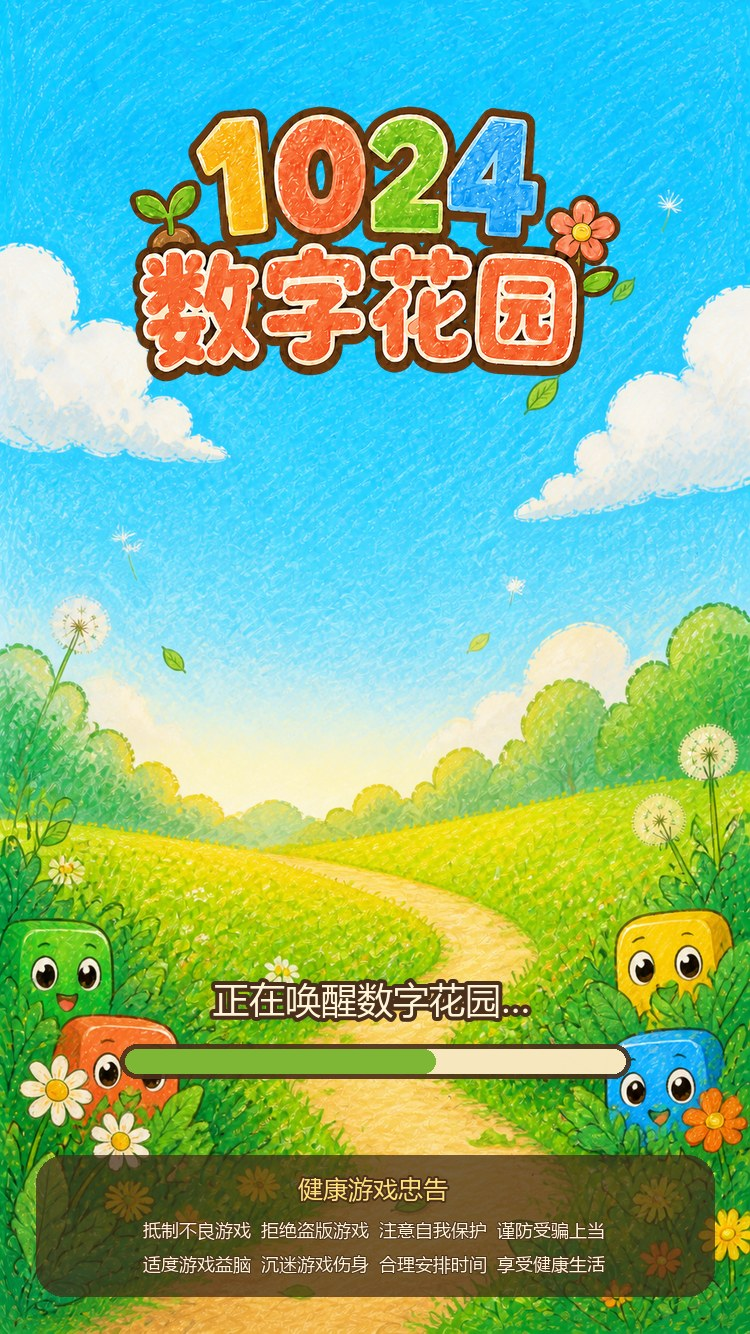
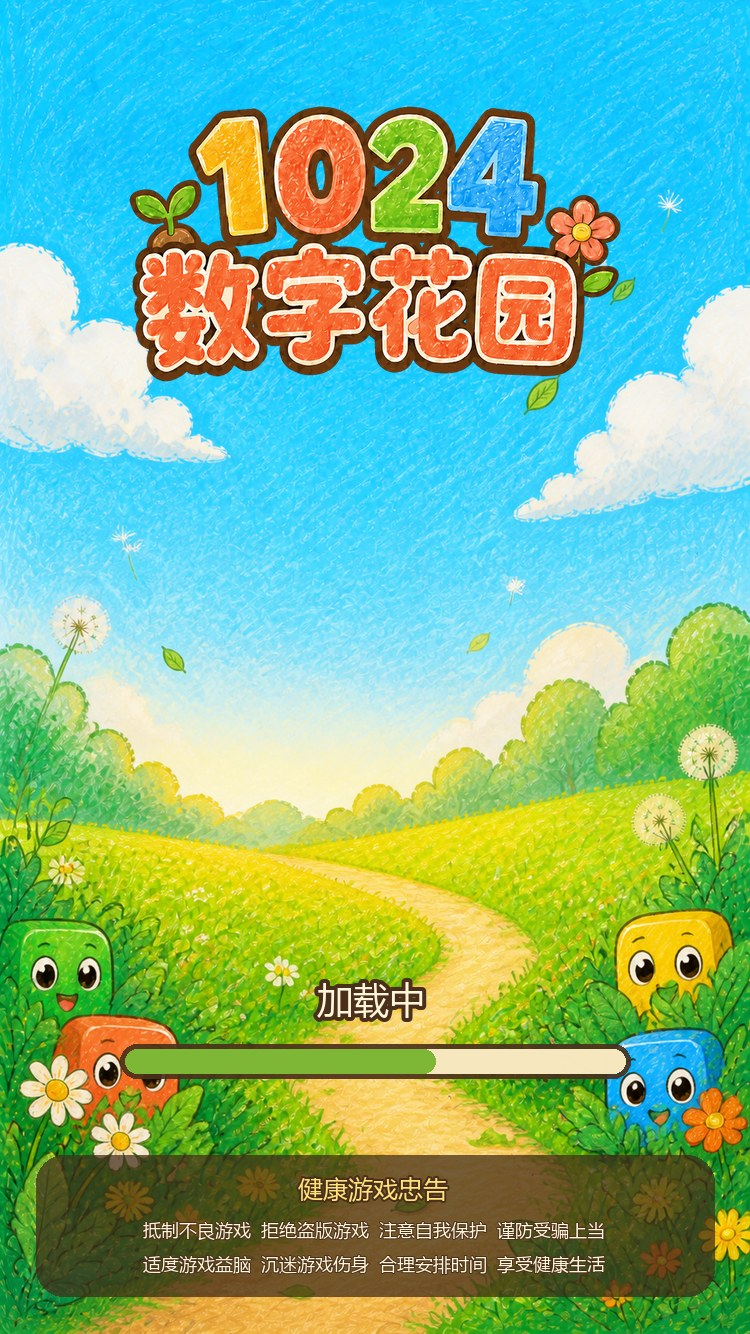
首屏

Changed region(s): [[0.276, 0.7069, 0.7053, 0.7684]]

diff --git a/tools/wechat-startup-page/first-screen.js b/tools/wechat-startup-page/first-screen.js
@@ -123,6 +123,14 @@ const MAX_LOGO_HEIGHT_RATIO = 0.215;
 const BAR_CENTER_Y = -0.58;
 const BAR_HEIGHT_RATIO = 0.022;
 const MIN_BAR_HEIGHT_PIXELS = 22;
+const LOADING_LABEL_TEXTURE_WIDTH = 384;
+const LOADING_LABEL_TEXTURE_HEIGHT = 128;
+const LOADING_LABEL_WIDTH_RATIO = 0.32;
+const LOADING_LABEL_CENTER_Y = BAR_CENTER_Y + 0.082;
+const HEALTH_ADVICE_TEXTURE_WIDTH = 1024;
+const HEALTH_ADVICE_TEXTURE_HEIGHT = 220;
+const HEALTH_ADVICE_WIDTH_RATIO = 0.9;
+const HEALTH_ADVICE_CENTER_Y = -0.845;
 const TRACK_COLOR = [74 / 255, 48 / 255, 28 / 255, 0.92];
 const EMPTY_COLOR = [255 / 255, 240 / 255, 199 / 255, 0.96];
 const FILL_COLOR = [126 / 255, 183 / 255, 54 / 255, 1];
@@ -330,18 +338,21 @@ function createTextCanvas(width, height) {
 }
 
 function createLoadingLabelTexture() {
-    const { textCanvas, context } = createTextCanvas(768, 128);
+    const { textCanvas, context } = createTextCanvas(
+        LOADING_LABEL_TEXTURE_WIDTH,
+        LOADING_LABEL_TEXTURE_HEIGHT
+    );
 
     context.clearRect(0, 0, textCanvas.width, textCanvas.height);
     context.textAlign = 'center';
     context.textBaseline = 'middle';
-    context.font = '600 46px sans-serif';
+    context.font = '600 56px sans-serif';
     context.lineJoin = 'round';
     context.strokeStyle = '#4a301c';
     context.lineWidth = 8;
-    context.strokeText('正在唤醒数字花园…', textCanvas.width * 0.5, textCanvas.height * 0.52);
+    context.strokeText('加载中', textCanvas.width * 0.5, textCanvas.height * 0.52);
     context.fillStyle = '#fff6da';
-    context.fillText('正在唤醒数字花园…', textCanvas.width * 0.5, textCanvas.height * 0.52);
+    context.fillText('加载中', textCanvas.width * 0.5, textCanvas.height * 0.52);
     return createTexture(textCanvas);
 }
 
@@ -351,7 +362,10 @@ function createLoadingLabelTexture() {
  * 文字由微信系统字体实时绘制，不再依赖任何文字图片文件。
  */
 function createHealthAdviceTexture() {
-    const { textCanvas, context } = createTextCanvas(1024, 220);
+    const { textCanvas, context } = createTextCanvas(
+        HEALTH_ADVICE_TEXTURE_WIDTH,
+        HEALTH_ADVICE_TEXTURE_HEIGHT
+    );
 
     context.clearRect(0, 0, textCanvas.width, textCanvas.height);
     context.fillStyle = 'rgba(64, 43, 25, 0.72)';
@@ -448,9 +462,47 @@ function buildRectVertices(centerX, centerY, width, height) {
 }
 
 /**
- * 依据当前屏幕比例设置 Logo、进度条和文字位置。
+ * 按离屏纹理的原始宽高比设置进度条与文字区域。
  *
- * 所有尺寸都由 Canvas 动态计算，保证全面屏、普通竖屏和平板预览时仍保持相同视觉层次。
+ * 宽高都先用 Canvas 像素计算，再换算到裁剪空间，避免高 DPI 或特殊长宽比设备
+ * 分别缩放 X/Y 后把中文压扁。
+ */
+function updateTextLayout() {
+    const barWidthPixels = canvas.width * 0.68;
+    const barHeightPixels = Math.max(
+        canvas.height * BAR_HEIGHT_RATIO,
+        MIN_BAR_HEIGHT_PIXELS
+    );
+    const barWidth = barWidthPixels * 2 / canvas.width;
+    const barHeight = barHeightPixels * 2 / canvas.height;
+    updateBuffer(barBuffer, buildRectVertices(0, BAR_CENTER_Y, barWidth, barHeight));
+
+    const labelWidthPixels = canvas.width * LOADING_LABEL_WIDTH_RATIO;
+    const labelHeightPixels = labelWidthPixels
+        * LOADING_LABEL_TEXTURE_HEIGHT
+        / LOADING_LABEL_TEXTURE_WIDTH;
+    const labelWidth = labelWidthPixels * 2 / canvas.width;
+    const labelHeight = labelHeightPixels * 2 / canvas.height;
+    updateBuffer(
+        labelBuffer,
+        buildRectVertices(0, LOADING_LABEL_CENTER_Y, labelWidth, labelHeight)
+    );
+
+    // 忠告区自带半透明底板，放在底部安全区并保持原始纹理比例。
+    const adviceWidthPixels = canvas.width * HEALTH_ADVICE_WIDTH_RATIO;
+    const adviceHeightPixels = adviceWidthPixels
+        * HEALTH_ADVICE_TEXTURE_HEIGHT
+        / HEALTH_ADVICE_TEXTURE_WIDTH;
+    const adviceWidth = adviceWidthPixels * 2 / canvas.width;
+    const adviceHeight = adviceHeightPixels * 2 / canvas.height;
+    updateBuffer(
+        healthAdviceBuffer,
+        buildRectVertices(0, HEALTH_ADVICE_CENTER_Y, adviceWidth, adviceHeight)
+    );
+}
+
+/**
+ * 依据当前屏幕比例设置 Logo，并同步刷新文字布局。
  */
 function updateLayout(logoImage) {
     const logoAspect = logoImage.width / logoImage.height;
@@ -469,33 +521,7 @@ function updateLayout(logoImage) {
         logoBuffer,
         buildRectVertices(0, LOGO_CENTER_Y, logoWidth, logoHeight)
     );
-
-    const barWidthPixels = canvas.width * 0.68;
-    const barHeightPixels = Math.max(
-        canvas.height * BAR_HEIGHT_RATIO,
-        MIN_BAR_HEIGHT_PIXELS
-    );
-    const barWidth = barWidthPixels * 2 / canvas.width;
-    const barHeight = barHeightPixels * 2 / canvas.height;
-    updateBuffer(barBuffer, buildRectVertices(0, BAR_CENTER_Y, barWidth, barHeight));
-
-    const labelWidth = barWidth * 0.9;
-    const labelHeight = 96 * 2 / canvas.height;
-    updateBuffer(
-        labelBuffer,
-        buildRectVertices(0, BAR_CENTER_Y + 0.082, labelWidth, labelHeight)
-    );
-
-    // 忠告区自带半透明底板，放在底部安全区并保持原始纹理比例。
-    const adviceWidthPixels = canvas.width * 0.9;
-    const adviceHeightPixels = adviceWidthPixels * 220 / 1024;
-    const adviceWidth = adviceWidthPixels * 2 / canvas.width;
-    const adviceHeight = adviceHeightPixels * 2 / canvas.height;
-    const adviceCenterY = -0.845;
-    updateBuffer(
-        healthAdviceBuffer,
-        buildRectVertices(0, adviceCenterY, adviceWidth, adviceHeight)
-    );
+    updateTextLayout();
 }
 
 function drawTexture(texture, buffer) {
@@ -666,8 +692,12 @@ function start(alpha, antialias, useWebgl2) {
     backgroundBuffer = createBuffer(buildRectVertices(0, 0, 2, 2));
     logoBuffer = createBuffer(buildRectVertices(0, LOGO_CENTER_Y, 1, 0.3));
     barBuffer = createBuffer(buildRectVertices(0, BAR_CENTER_Y, 1.36, 0.04));
-    labelBuffer = createBuffer(buildRectVertices(0, BAR_CENTER_Y + 0.082, 1.2, 0.08));
-    healthAdviceBuffer = createBuffer(buildRectVertices(0, -0.845, 1.8, 0.19));
+    labelBuffer = createBuffer(buildRectVertices(0, LOADING_LABEL_CENTER_Y, 0.64, 0.08));
+    healthAdviceBuffer = createBuffer(
+        buildRectVertices(0, HEALTH_ADVICE_CENTER_Y, 1.8, 0.19)
+    );
+    // 首帧就使用正确宽高比，不等待 Logo 图片异步加载完成。
+    updateTextLayout();
 
     try {
         labelTexture = createLoadingLabelTexture();

diff --git a/tools/wechat-startup-page/generate-startup-assets.py b/tools/wechat-startup-page/generate-startup-assets.py
@@ -212,7 +212,7 @@ def create_design_preview(background: Image.Image, logo: Image.Image) -> None:
     advice_font = ImageFont.truetype(str(preview_font), 18)
     centered_text(
         draw,
-        "正在唤醒数字花园…",
+        "加载中",
         center_y=1000,
         font=status_font,
         fill="#fff6da",

diff --git a/tools/wechat-startup-page/README.md b/tools/wechat-startup-page/README.md
@@ -8,11 +8,11 @@
 - 18:00–05:59 使用第三套“夜光水彩”轻量 JPG 全屏背景
 - 由首页 Logo 裁边、缩放后生成的轻量透明 PNG
 - 深棕色胶囊进度底槽与春芽绿进度
-- “正在唤醒数字花园…”状态文案
+- “加载中”状态文案
 - 带半透明底板的标准健康游戏忠告
 - 不显示公司说明或版号信息
 
-昼夜判断使用玩家设备的本地时间。启动页只有背景和 Logo 使用图片。“正在唤醒数字花园…”和健康游戏忠告由微信离屏 2D Canvas
+昼夜判断使用玩家设备的本地时间。启动页只有背景和 Logo 使用图片。“加载中”和健康游戏忠告由微信离屏 2D Canvas
 使用系统字体实时绘制，再交给 WebGL 展示，不再携带任何文字图片文件。
 
 背景和 Logo 使用发布专用轻量资源，避免高清设计源直接进入微信主包。安装脚本会
